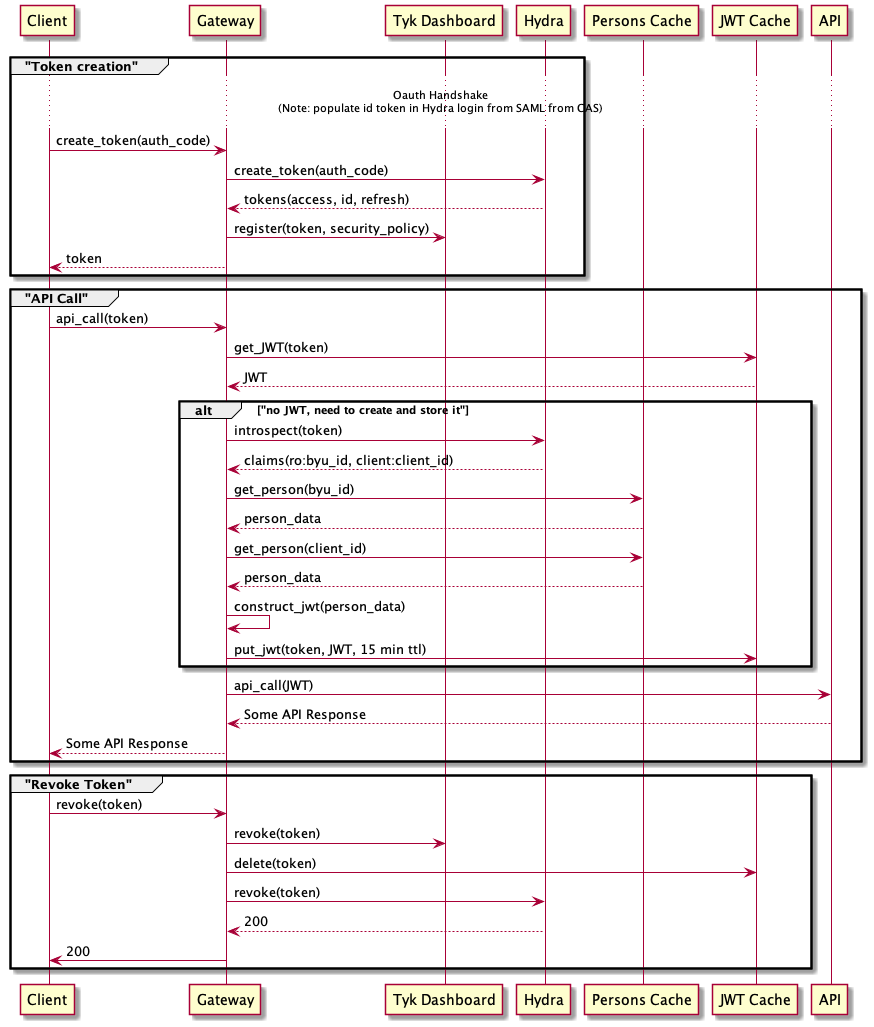
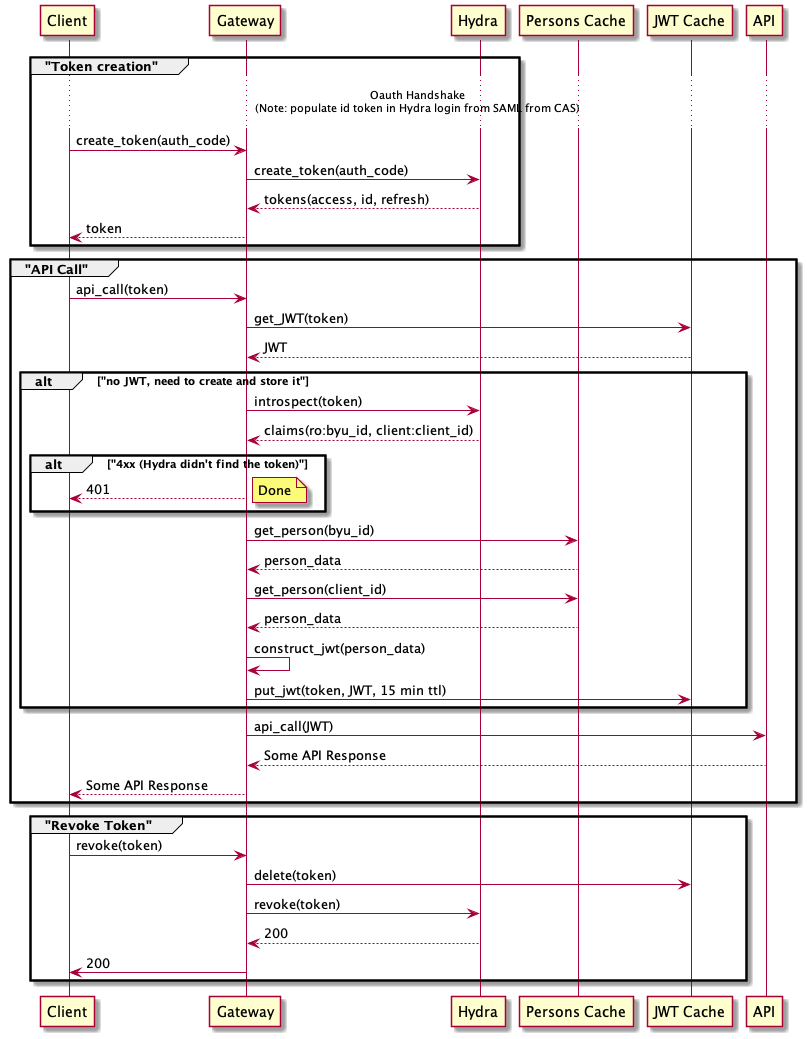
eliminate dependency on Tyk dashboard API

Changed region(s): [[0.0, 0.0, 1.0, 0.9971], [0.5562, 0.8413, 0.6489, 0.9036], [0.8344, 0.8413, 0.8653, 0.8724]]

diff --git a/doc/README.md b/doc/README.md
@@ -35,4 +35,6 @@ Almost all APIs will accept a JWT that contains the claims listed at [https://de
 
 A couple of our API platforms are not able to consume JWTs (notably, PeopleSoft and C-Framework). Rather, these platforms accept identity data via an HTTP header. Currently, these platforms are secured at the network layer (i.e. gateways are inside the same trusted zone as the platform servers). **TODO: Figure out how to securely allow these platform servers to trust traffic from gateways managed by Tyk**
 
-Ory Hydra (fronted by Ory Oathkeeper) will be used for OAuth. The gateways will proxy these requests, allowing the tokens to be captured and synchronized with Tyk.
+Ory Hydra (fronted by Ory Oathkeeper) will be used for OAuth. The gateways will proxy these requests, allowing the token revocation process to be hooked, so that JWTs can be invalidated.
+
+APIs registered in Tyk will not use Token Authentication. Rather, they will use a custom plugin authentication that follows the flow of the diagram above. This eliminates the need to synchronize access tokens with Tyk.
